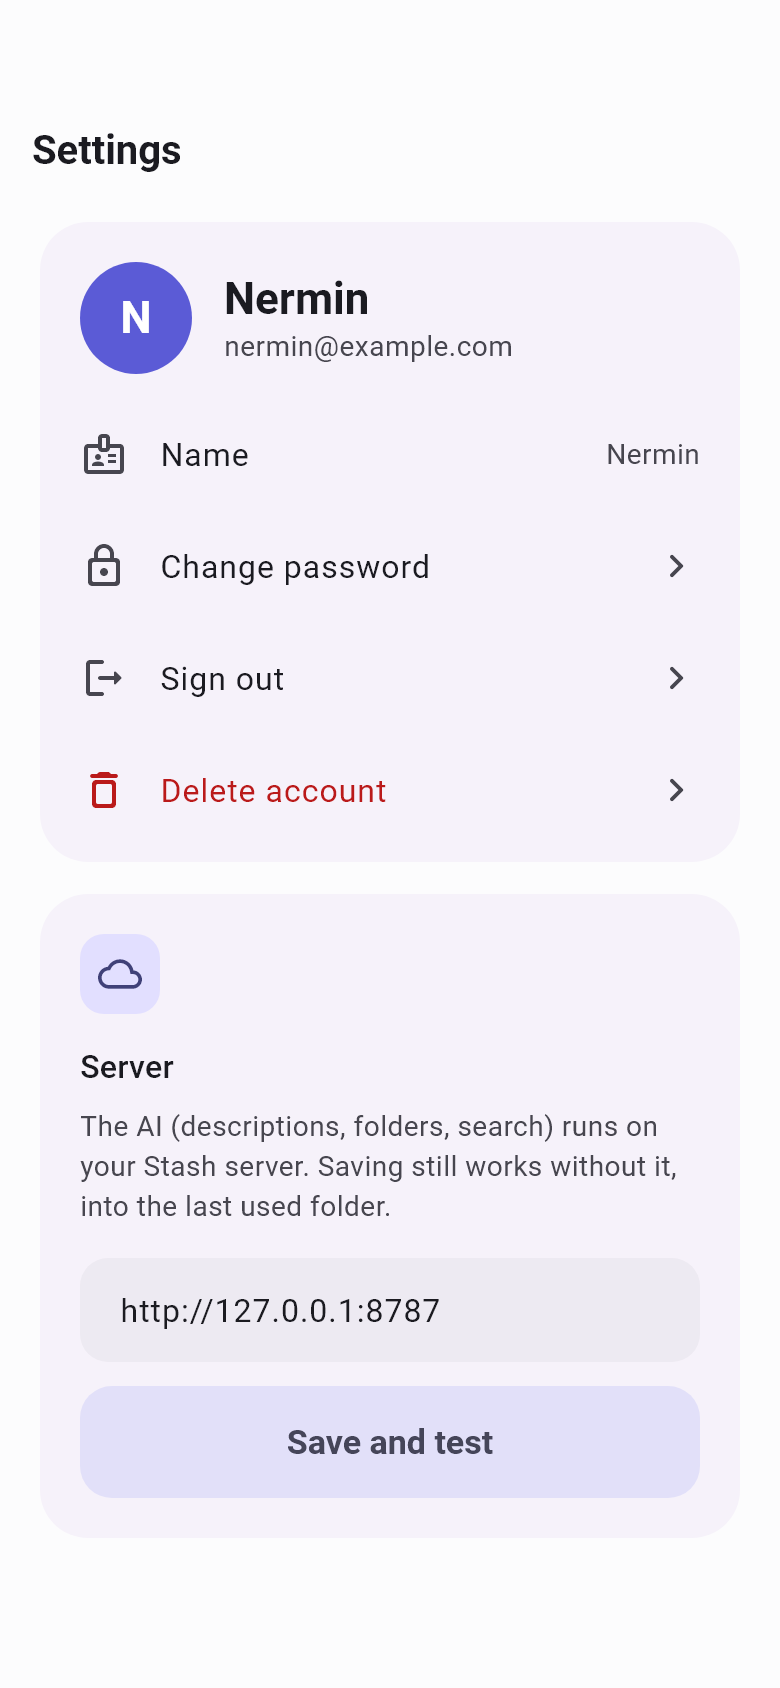
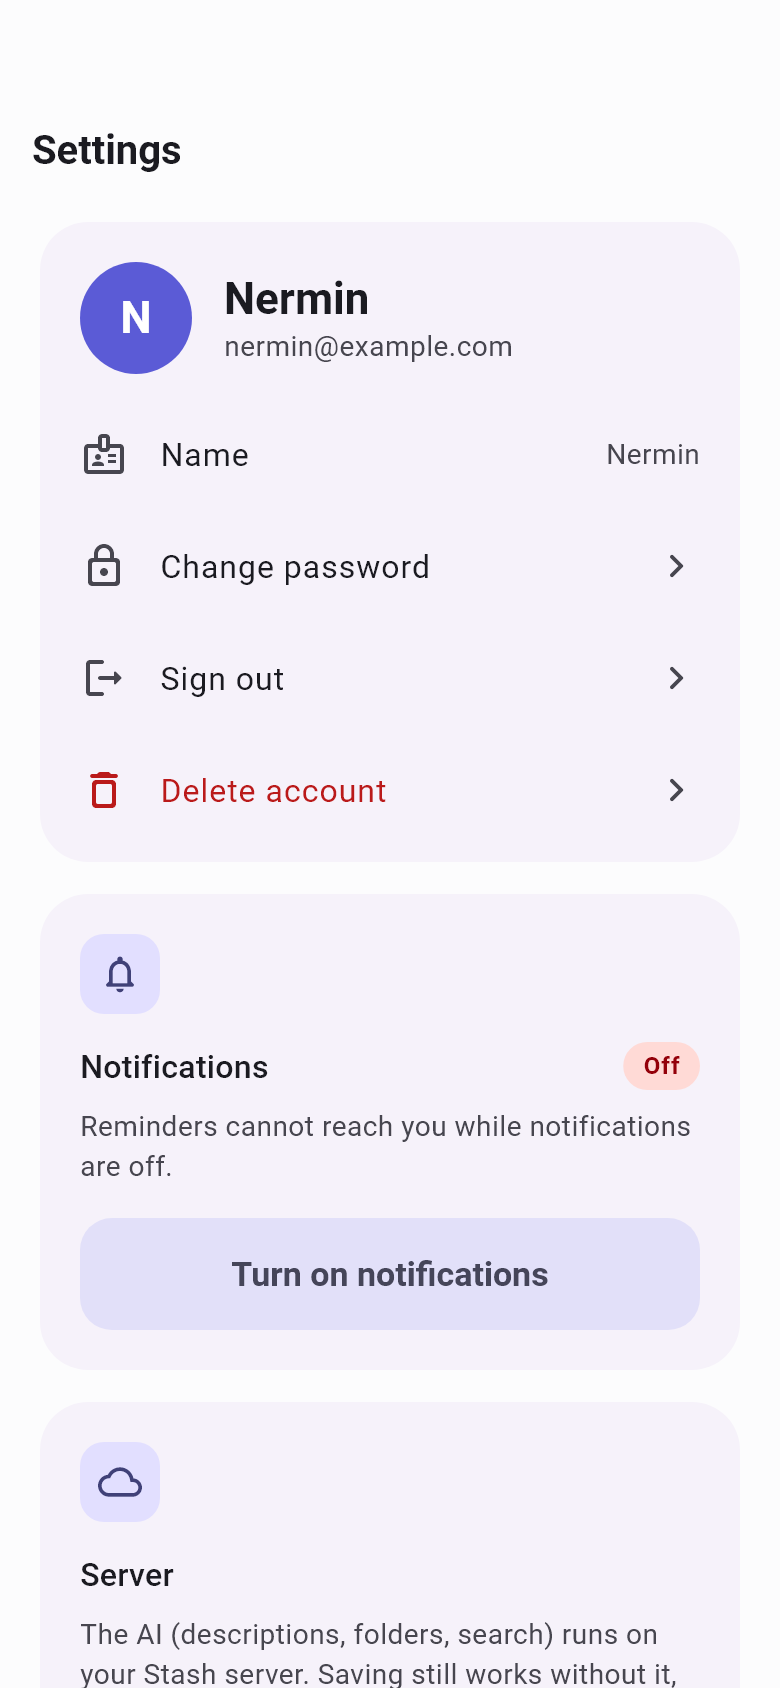
Fix reminders in release builds, add notification permission prompt and settings
- Keep the reminder icon from being stripped by the resource shrinker
- Explain, ask, and fall back to system settings when Android will not ask again
- Notifications status card in Settings; show the real error when scheduling fails

diff --git a/app/lib/services/reminders.dart b/app/lib/services/reminders.dart
@@ -1,4 +1,5 @@
 import 'package:flutter/material.dart';
+import 'package:flutter/services.dart';
 import 'package:flutter_local_notifications/flutter_local_notifications.dart';
 import 'package:timezone/data/latest_all.dart' as tzdata;
 import 'package:timezone/timezone.dart' as tz;
@@ -45,16 +46,104 @@ class Reminders {
   // Notification ids are ints; derive a stable one from the post id.
   static int _id(String postId) => postId.hashCode & 0x7fffffff;
 
-  /// Returns false when the reminder could not be set (permission refused).
-  static Future<bool> schedule(String postId, DateTime when, {required String title, String? body}) async {
+  static AndroidFlutterLocalNotificationsPlugin? get _android =>
+      _plugin.resolvePlatformSpecificImplementation<AndroidFlutterLocalNotificationsPlugin>();
+
+  /// Whether Stash is currently allowed to show notifications.
+  static Future<bool> enabled() async {
     try {
       await init();
-      final android = _plugin.resolvePlatformSpecificImplementation<AndroidFlutterLocalNotificationsPlugin>();
-      if (await android?.requestNotificationsPermission() == false) return false;
-      await _plugin.resolvePlatformSpecificImplementation<IOSFlutterLocalNotificationsPlugin>()?.requestPermissions(
-        alert: true,
-        sound: true,
-      );
+      final android = _android;
+      if (android != null) return await android.areNotificationsEnabled() ?? false;
+      final ios = _plugin.resolvePlatformSpecificImplementation<IOSFlutterLocalNotificationsPlugin>();
+      return (await ios?.checkPermissions())?.isEnabled ?? false;
+    } catch (_) {
+      return false;
+    }
+  }
+
+  /// Shows the system's "allow notifications?" prompt. Android only shows it
+  /// a couple of times; after that this returns false without asking, and the
+  /// only way forward is the app's settings page ([openSettings]).
+  static Future<bool> requestPermission() async {
+    try {
+      await init();
+      final android = _android;
+      if (android != null) return await android.requestNotificationsPermission() ?? false;
+      final ios = _plugin.resolvePlatformSpecificImplementation<IOSFlutterLocalNotificationsPlugin>();
+      return await ios?.requestPermissions(alert: true, sound: true) ?? false;
+    } catch (_) {
+      return false;
+    }
+  }
+
+  static Future<void> openSettings() async {
+    try {
+      await const MethodChannel('stash/system').invokeMethod<bool>('openNotificationSettings');
+    } catch (_) {}
+  }
+
+  /// Makes sure notifications are allowed, asking if they are not: first an
+  /// explanation, then the system prompt, and when the system will no longer
+  /// ask, a pointer to the settings page. Returns whether they are allowed now.
+  static Future<bool> ensurePermission(BuildContext context) async {
+    if (await enabled()) return true;
+    if (!context.mounted) return false;
+    final go = await showDialog<bool>(
+      context: context,
+      builder: (context) => AlertDialog(
+        icon: const Icon(Icons.notifications_active_outlined),
+        title: const Text('Turn on notifications'),
+        content: const Text(
+          'Stash uses notifications only for the reminders you set, to bring a saved post back at the time you chose.',
+        ),
+        actions: [
+          TextButton(onPressed: () => Navigator.pop(context, false), child: const Text('Not now')),
+          FilledButton(
+            style: FilledButton.styleFrom(minimumSize: const Size(0, 44)),
+            onPressed: () => Navigator.pop(context, true),
+            child: const Text('Turn on'),
+          ),
+        ],
+      ),
+    );
+    if (go != true) return false;
+    if (await requestPermission()) return true;
+    if (await enabled()) return true;
+    if (!context.mounted) return false;
+
+    // The system declined to ask (it was refused before). Send them to settings.
+    final open = await showDialog<bool>(
+      context: context,
+      builder: (context) => AlertDialog(
+        title: const Text('Notifications are blocked'),
+        content: const Text(
+          'Your phone is not letting Stash ask again. Open settings, turn on "Allow notifications" for Stash, '
+          'then come back and set the reminder.',
+        ),
+        actions: [
+          TextButton(onPressed: () => Navigator.pop(context, false), child: const Text('Cancel')),
+          FilledButton(
+            style: FilledButton.styleFrom(minimumSize: const Size(0, 44)),
+            onPressed: () => Navigator.pop(context, true),
+            child: const Text('Open settings'),
+          ),
+        ],
+      ),
+    );
+    if (open == true) await openSettings();
+    return false;
+  }
+
+  /// Why the last [schedule] failed, for showing to the user.
+  static String? lastError;
+
+  /// Schedules the notification. Permission must already be granted (see
+  /// [ensurePermission]). Returns false and sets [lastError] on failure.
+  static Future<bool> schedule(String postId, DateTime when, {required String title, String? body}) async {
+    lastError = null;
+    try {
+      await init();
       await _plugin.zonedSchedule(
         id: _id(postId),
         // An absolute instant, so the device's time zone database is not needed.
@@ -77,6 +166,7 @@ class Reminders {
       );
       return true;
     } catch (e) {
+      lastError = e is PlatformException ? (e.message ?? e.code) : '$e';
       debugPrint('could not schedule reminder: $e');
       return false;
     }

diff --git a/app/lib/ui/account_screen.dart b/app/lib/ui/account_screen.dart
@@ -3,6 +3,7 @@ import 'package:flutter/material.dart';
 import '../data/store.dart';
 import '../services/api.dart';
 import '../services/auth.dart';
+import '../services/reminders.dart';
 import 'auth_screens.dart';
 
 /// Settings: the signed-in account, and the server the app talks to.
@@ -17,6 +18,8 @@ class AccountScreen extends StatelessWidget {
       padding: const EdgeInsets.fromLTRB(20, 8, 20, 32),
       children: [
         _AccountSection(auth: store.auth),
+        const SizedBox(height: 16),
+        const _Card(icon: Icons.notifications_none_rounded, child: _NotificationsSection()),
         const SizedBox(height: 16),
         _Card(
           icon: Icons.cloud_outlined,
@@ -60,6 +63,99 @@ class _Card extends StatelessWidget {
           ],
         ),
       ),
+    );
+  }
+}
+
+/// Whether reminders can reach the user, and a way to fix it when they cannot.
+class _NotificationsSection extends StatefulWidget {
+  const _NotificationsSection();
+
+  @override
+  State<_NotificationsSection> createState() => _NotificationsSectionState();
+}
+
+class _NotificationsSectionState extends State<_NotificationsSection> with WidgetsBindingObserver {
+  bool? _on;
+
+  @override
+  void initState() {
+    super.initState();
+    WidgetsBinding.instance.addObserver(this);
+    _check();
+  }
+
+  @override
+  void dispose() {
+    WidgetsBinding.instance.removeObserver(this);
+    super.dispose();
+  }
+
+  // Coming back from the system settings page: look again.
+  @override
+  void didChangeAppLifecycleState(AppLifecycleState state) {
+    if (state == AppLifecycleState.resumed) _check();
+  }
+
+  Future<void> _check() async {
+    final on = await Reminders.enabled();
+    if (mounted) setState(() => _on = on);
+  }
+
+  @override
+  Widget build(BuildContext context) {
+    final theme = Theme.of(context);
+    final scheme = theme.colorScheme;
+    final on = _on;
+    return Column(
+      crossAxisAlignment: CrossAxisAlignment.stretch,
+      children: [
+        Row(
+          children: [
+            Expanded(child: Text('Notifications', style: theme.textTheme.titleMedium)),
+            if (on != null)
+              Container(
+                padding: const EdgeInsets.symmetric(horizontal: 10, vertical: 4),
+                decoration: BoxDecoration(
+                  color: on ? const Color(0x2230A46C) : scheme.errorContainer,
+                  borderRadius: BorderRadius.circular(999),
+                ),
+                child: Text(
+                  on ? 'On' : 'Off',
+                  style: theme.textTheme.labelMedium?.copyWith(
+                    color: on ? const Color(0xFF218358) : scheme.onErrorContainer,
+                    fontWeight: FontWeight.w700,
+                  ),
+                ),
+              ),
+          ],
+        ),
+        const SizedBox(height: 8),
+        Text(
+          on == false
+              ? 'Reminders cannot reach you while notifications are off.'
+              : 'Used only for the reminders you set on saved posts.',
+          style: theme.textTheme.bodyMedium?.copyWith(color: scheme.onSurfaceVariant, height: 1.4),
+        ),
+        const SizedBox(height: 16),
+        if (on == false)
+          FilledButton.tonal(
+            onPressed: () async {
+              await Reminders.ensurePermission(context);
+              await _check();
+            },
+            child: const Text('Turn on notifications'),
+          )
+        else
+          OutlinedButton(
+            style: OutlinedButton.styleFrom(
+              minimumSize: const Size.fromHeight(48),
+              shape: RoundedRectangleBorder(borderRadius: BorderRadius.circular(16)),
+            ),
+            onPressed: Reminders.openSettings,
+            child: const Text('Notification settings'),
+          ),
+      ],
     );
   }
 }

diff --git a/app/lib/main.dart b/app/lib/main.dart
@@ -16,6 +16,7 @@ import 'ui/post_details.dart';
 import 'ui/theme.dart';
 
 const _onboardedKey = 'onboarded';
+const _askedNotificationsKey = 'asked_notifications';
 
 Future<void> main() async {
   WidgetsFlutterBinding.ensureInitialized();
@@ -71,6 +72,7 @@ class _StashAppState extends State<StashApp> with WidgetsBindingObserver {
 
     // Tapping a reminder opens that post's details.
     Reminders.onOpen = _showPost;
+    _askForNotificationsOnce();
     WidgetsBinding.instance.addPostFrameCallback((_) async {
       final id = await Reminders.launchPostId();
       if (id != null) _showPost(id);
@@ -84,7 +86,23 @@ class _StashAppState extends State<StashApp> with WidgetsBindingObserver {
     unawaited(store.background());
   }
 
-  void _onAuthChanged() => setState(() {});
+  void _onAuthChanged() {
+    setState(() {});
+    _askForNotificationsOnce();
+  }
+
+  /// The first time the home screen is reached, offer to turn notifications
+  /// on, so reminders work later without a detour. Asked once; after that the
+  /// prompt only appears when a reminder is being set.
+  void _askForNotificationsOnce() {
+    if (_onboarding || !store.auth.signedIn) return;
+    WidgetsBinding.instance.addPostFrameCallback((_) async {
+      if (await store.repo.kv(_askedNotificationsKey) != null) return;
+      await store.repo.setKv(_askedNotificationsKey, '1');
+      final context = _navigator.currentContext;
+      if (context != null && context.mounted) await Reminders.ensurePermission(context);
+    });
+  }
 
   Future<void> _showPost(String id) async {
     final post = await store.repo.post(id);
@@ -124,6 +142,7 @@ class _StashAppState extends State<StashApp> with WidgetsBindingObserver {
             onDone: () {
               unawaited(store.repo.setKv(_onboardedKey, '1'));
               setState(() => _onboarding = false);
+              _askForNotificationsOnce();
             },
           )
         : store.auth.signedIn

diff --git a/app/android/app/src/main/kotlin/com/example/stash/SystemChannel.kt b/app/android/app/src/main/kotlin/com/example/stash/SystemChannel.kt
@@ -1,0 +1,36 @@
+package com.example.stash
+
+import android.app.Activity
+import android.content.Intent
+import android.net.Uri
+import android.provider.Settings
+import io.flutter.embedding.engine.FlutterEngine
+import io.flutter.plugin.common.MethodChannel
+
+/** Small system helpers shared by the main app and the share sheet. */
+object SystemChannel {
+    fun register(engine: FlutterEngine, activity: Activity) {
+        MethodChannel(engine.dartExecutor.binaryMessenger, "stash/system").setMethodCallHandler { call, result ->
+            if (call.method == "openNotificationSettings") {
+                result.success(openNotificationSettings(activity))
+            } else {
+                result.notImplemented()
+            }
+        }
+    }
+
+    /** Opens this app's notification settings; the app's general settings page if that fails. */
+    private fun openNotificationSettings(activity: Activity): Boolean {
+        val direct = Intent(Settings.ACTION_APP_NOTIFICATION_SETTINGS)
+            .putExtra(Settings.EXTRA_APP_PACKAGE, activity.packageName)
+        val general = Intent(Settings.ACTION_APPLICATION_DETAILS_SETTINGS, Uri.parse("package:${activity.packageName}"))
+        for (intent in listOf(direct, general)) {
+            try {
+                activity.startActivity(intent)
+                return true
+            } catch (_: Exception) {
+            }
+        }
+        return false
+    }
+}

diff --git a/app/lib/ui/post_card.dart b/app/lib/ui/post_card.dart
@@ -110,6 +110,7 @@ Future<void> runPostAction(BuildContext context, Store store, Post post, PostAct
         await store.mutate(() => store.repo.setReminder(post.id, null));
         return;
       }
+      if (!context.mounted || !await Reminders.ensurePermission(context)) return;
       final ok = await Reminders.schedule(
         post.id,
         when,
@@ -121,7 +122,9 @@ Future<void> runPostAction(BuildContext context, Store store, Post post, PostAct
         ScaffoldMessenger.of(context).showSnackBar(
           SnackBar(
             content: Text(
-              ok ? 'Reminder set for ${reminderLabel(when)}' : 'Allow notifications for Stash to get reminders',
+              ok
+                  ? 'Reminder set for ${reminderLabel(when)}'
+                  : 'Could not set the reminder: ${Reminders.lastError ?? 'unknown error'}',
             ),
           ),
         );

diff --git a/app/lib/share/share_sheet.dart b/app/lib/share/share_sheet.dart
@@ -289,7 +289,10 @@ class _ShareSheetState extends State<ShareSheet> {
       onPressed: () async {
         final picked = await pickReminder(context, current: when);
         if (picked == null) return;
-        setState(() => c.remindAt = picked == clearReminder ? null : picked);
+        if (picked == clearReminder) return setState(() => c.remindAt = null);
+        // Ask now, while the sheet is open; after Save it closes too fast to ask.
+        if (!mounted || !await Reminders.ensurePermission(context)) return;
+        if (mounted) setState(() => c.remindAt = picked);
       },
       icon: Icon(when == null ? Icons.notifications_none_rounded : Icons.notifications_active_rounded, size: 18),
       label: Text(when == null ? 'Remind me' : reminderLabel(when)),

diff --git a/app/android/app/src/main/kotlin/com/example/stash/ShareActivity.kt b/app/android/app/src/main/kotlin/com/example/stash/ShareActivity.kt
@@ -18,6 +18,7 @@ class ShareActivity : FlutterActivity() {
 
     override fun configureFlutterEngine(flutterEngine: FlutterEngine) {
         super.configureFlutterEngine(flutterEngine)
+        SystemChannel.register(flutterEngine, this)
         MethodChannel(flutterEngine.dartExecutor.binaryMessenger, "stash/share").setMethodCallHandler { call, result ->
             when (call.method) {
                 "getSharedText" -> result.success(sharedText())

diff --git a/app/android/app/src/main/kotlin/com/example/stash/MainActivity.kt b/app/android/app/src/main/kotlin/com/example/stash/MainActivity.kt
@@ -28,6 +28,7 @@ class MainActivity : FlutterActivity() {
 
     override fun configureFlutterEngine(flutterEngine: FlutterEngine) {
         super.configureFlutterEngine(flutterEngine)
+        SystemChannel.register(flutterEngine, this)
         MethodChannel(flutterEngine.dartExecutor.binaryMessenger, "stash/open").setMethodCallHandler { call, result ->
             when (call.method) {
                 "openInApp" -> {
